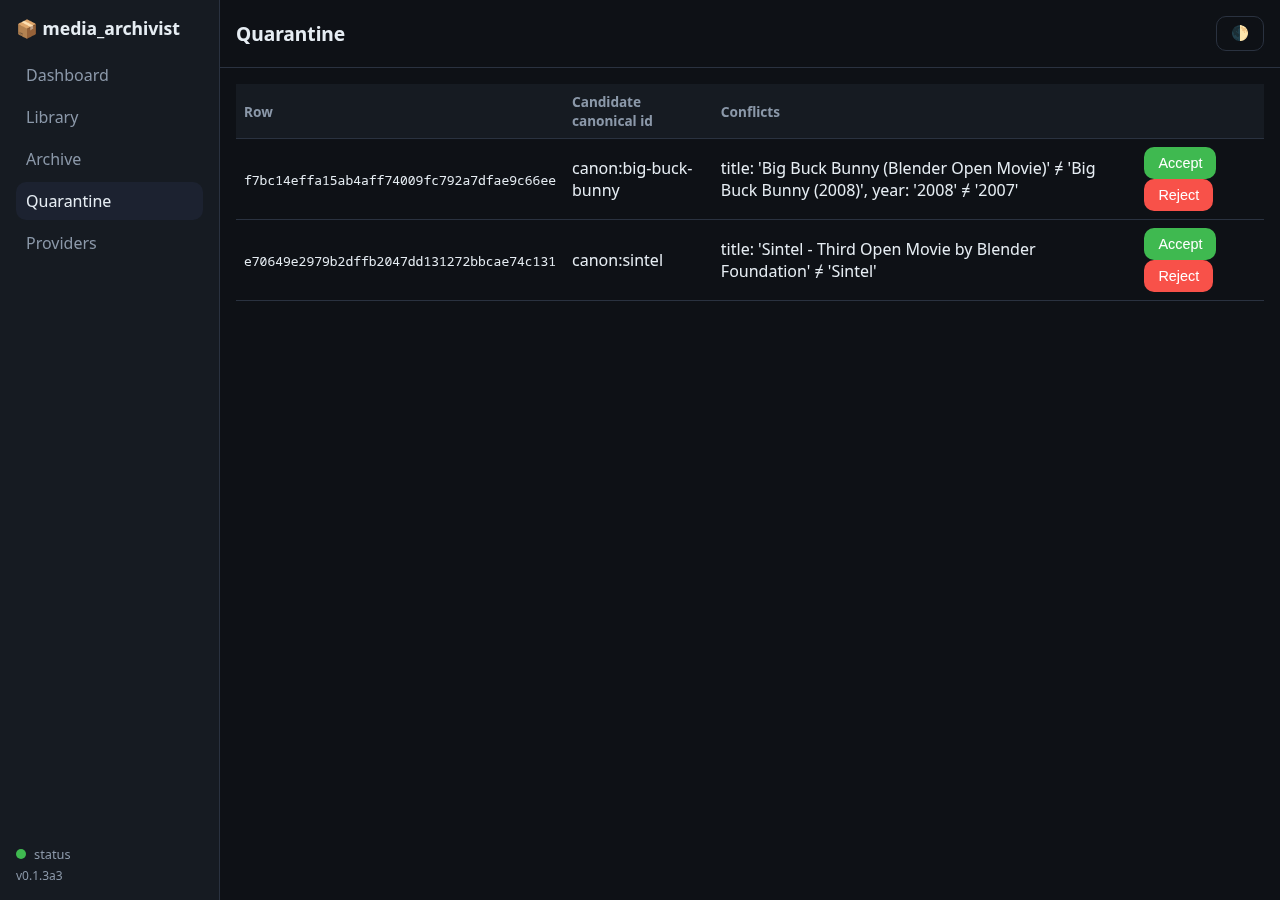
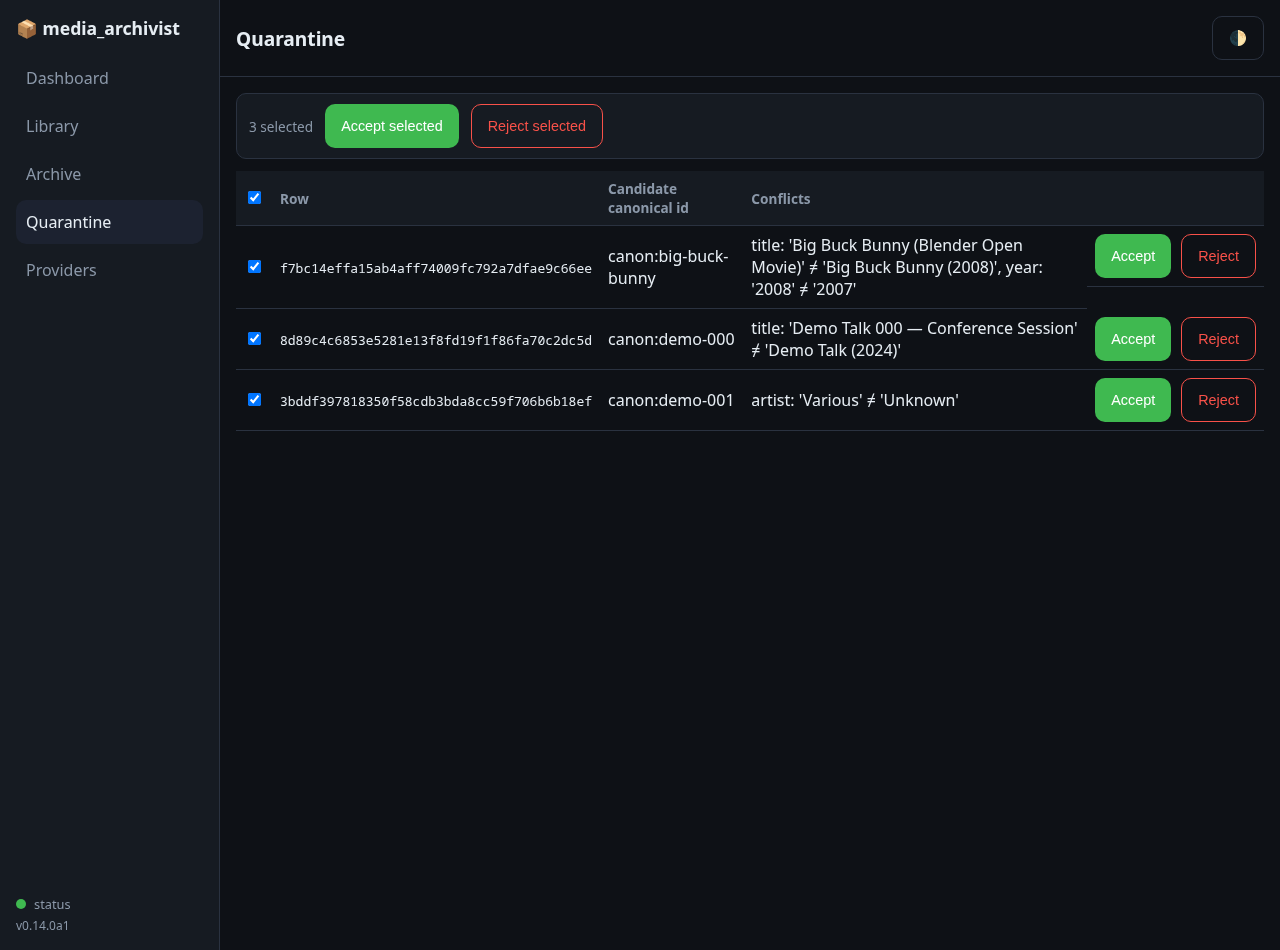
docs: refresh README + docs around the streams job
State the streams-not-tagging job up front, document the paginated
Library, inline player, bulk quarantine accept/reject, optional
download action, and the strm play-time yt-dlp redirect hook against
current source. Wire the staged screenshots into README/webui.md and
add jellyfin.md/metadatarr.md to the mkdocs nav.

diff --git a/README.md b/README.md
@@ -1,7 +1,11 @@
 # media_archivist
 
-Cross-source media indexer. Builds a local JSON database of stream metadata
-from YouTube, YouTube Music, Internet Archive, Bandcamp and SoundCloud.
+media_archivist adds remote media as **streams** to your library. It indexes
+YouTube, YouTube Music, Internet Archive, Bandcamp and SoundCloud into a local
+JSON database, exports that index as `.strm` / M3U / RSS for Jellyfin and
+Kodi, and resolves a fresh playable URL for any entry on demand — all
+**without downloading anything**. Downloading is optional and secondary: a
+one-click/one-command action for the rows you actually want on disk.
 
 | Backend | Library | What you can index |
 | --- | --- | --- |
@@ -11,11 +15,11 @@ from YouTube, YouTube Music, Internet Archive, Bandcamp and SoundCloud.
 | **Bandcamp** | [`py_bandcamp`](https://github.com/LeMetadatarr/py_bandcamp) | tracks, albums, artists, tag/search |
 | **SoundCloud** | [`nuvem_de_som`](https://github.com/LeMetadatarr/nuvem_de_som) | tracks, sets, profiles, search |
 
-`media_archivist` is **metadata-only**: it indexes streams. It does not
-download them. Pair it with [`yt-dlp`](https://github.com/yt-dlp/yt-dlp) (or
-SoundCloud's `resolve_stream`, Bandcamp's `track.stream`) for on-demand
-extraction, or use the JSON DB to drive dataset-collection scripts, recommender
-experiments, OVOS skills, etc.
+`media_archivist` does the **streams** job only — index, resolve, play,
+optionally download. It does **not** tag an existing media library; that's
+[`metadatarr`](https://github.com/LeMetadatarr/metadatarr)'s job
+(`metadatarr tag-library`), the cross-source metadata resolver media_archivist
+itself calls into for `canonicalize`.
 
 Ships as a Python library, a `media-archivist` CLI, a JSON HTTP API, and a
 build-free Web UI on top of that API.
@@ -32,8 +36,9 @@ pip install media_archivist[all]         # + huggingface_hub, fastapi, uvicorn (
 ## Web UI
 
 A build-free [htmx](https://htmx.org) Web UI ships with the server, no
-Node, no JS build step. It gives you a dashboard, a library browser, one-click
-archiving with live progress, and a dedup quarantine review queue, all served
+Node, no JS build step. It gives you a dashboard, a paginated library browser
+with an inline player, one-click archiving and downloading with live
+progress, and a dedup quarantine queue with bulk accept/reject, all served
 alongside the existing JSON API.
 
 ![Dashboard](docs/img/dashboard.png)
@@ -53,15 +58,23 @@ docker compose -f deploy/docker-compose.yml up
 A quick tour of the pages:
 
 - **Library** — filter by source, free-text grep, or the `where` DSL, with
-  yes/no stream badges at a glance. The `where` filter is sandboxed: it
-  parses your expression with `ast` and walks a small allow-list of
-  comparisons/booleans, it never calls Python's `eval`.
+  yes/no stream badges at a glance and paginated results ("Showing 1–50 of
+  60" + Prev/Next). The `where` filter is sandboxed: it parses your
+  expression with `ast` and walks a small allow-list of comparisons/booleans,
+  it never calls Python's `eval`.
   ![Library](docs/img/library.png)
+- **Entry detail** — click a row to open the detail drawer: an inline player
+  (native `<audio>`/`<video>` when a direct stream URL is known, a lazy
+  `youtube-nocookie` embed or a "▶ Play (yt-dlp)" button otherwise), an
+  "↻ refresh stream" action for stale URLs, "Open original", full metadata,
+  and, when `yt-dlp` is available, a "⬇ Download" button.
+  ![Entry detail](docs/img/entry-detail.png)
 - **Archive** — kick off a new archive job and watch it progress live, no
   page refresh.
   ![Archive](docs/img/archive.png)
 - **Quarantine** — review dedup conflicts the resolver couldn't confidently
-  match, accept or reject each one.
+  match. Select multiple rows and "Accept selected" / "Reject selected" in
+  one action, or decide row by row.
   ![Quarantine](docs/img/quarantine.png)
 - **Providers** — see which metadatarr providers are active at a glance.
   ![Providers](docs/img/providers.png)
@@ -76,6 +89,46 @@ authentication**. It's single-tenant, LAN-only by design, put it behind a
 reverse proxy if you expose it beyond your local network, see
 [`docs/deploy.md`](docs/deploy.md). Full page-by-page tour:
 [`docs/webui.md`](docs/webui.md).
+
+## Playback: `.strm` + a play-time yt-dlp hook
+
+The point of streaming instead of downloading is that `media-archivist serve`
+can hand Jellyfin/Kodi a URL that **resolves at play time**, not at
+export time — so it survives YouTube CDN URLs expiring. Export `.strm` files
+whose body is `<base_url>/strm/<id>?resolve=1` (or set
+`MEDIA_ARCHIVIST_STRM_RESOLVE=1` on the server so plain `<base_url>/strm/<id>`
+bodies resolve too):
+
+```bash
+media-archivist strm-export --db-file talks.json \
+    --output-dir /var/lib/jellyfin/media/archivist \
+    --base-url http://nas.local:8000
+```
+
+When Jellyfin/ffmpeg opens that URL at playback time, media-archivist
+re-resolves a fresh direct media URL via yt-dlp and replies with a **302
+redirect** to it, no downloading, no Jellyfin plugin needed. Add
+`?mode=proxy` (or `MEDIA_ARCHIVIST_STRM_PROXY=1`) to have media-archivist
+stream the bytes through itself instead of redirecting, for players that
+can't follow redirects or reach the CDN directly. Resolution is
+**source-aware**: Bandcamp and SoundCloud resolve via their own archivist
+libs (no `yt-dlp` needed for those), YouTube (and anything else) goes through
+`yt-dlp`. Full recipe, `.nfo` sidecars, and library layouts:
+[`docs/jellyfin.md`](docs/jellyfin.md).
+
+## Optional download
+
+Streaming is the default; downloading a specific entry to disk is one
+scheduler-backed action away — the "⬇ Download" button in the entry detail
+drawer, or:
+
+```bash
+curl -X POST http://localhost:8000/entries/<id>/download
+```
+
+Files land under `MEDIA_ARCHIVIST_DOWNLOAD_DIR`, progress is tracked the same
+way as archive jobs (poll `GET /tasks/{task_id}`), and the button/endpoint is
+only offered when `yt-dlp` is actually available on the server.
 
 ## CLI
 
@@ -154,7 +207,7 @@ Do not expose port 8000 directly to the internet.
 
 | Endpoint | Purpose |
 | -------- | ------- |
-| `GET /strm/{id}` | Returns playable URL as `text/plain`, drop into `.strm` files for Jellyfin / Kodi. |
+| `GET /strm/{id}` | Playable URL for `.strm` files. Plain `text/plain` by default; `?resolve=1` 302-redirects to a freshly yt-dlp-resolved stream at play time (`?mode=proxy` to proxy the bytes instead). |
 | `GET /m3u` | M3U playlist of stream URLs. Accepts `source`, `where`, `has_stream`, `limit`. |
 | `GET /feed.rss` | RSS feed for podcast clients or Freshrss. Accepts `limit`. |
 | `GET /healthz` | Liveness check for Uptime Kuma, Docker, k8s. Returns `{status, version, db_path}`. |
@@ -163,6 +216,7 @@ Do not expose port 8000 directly to the internet.
 | `GET /quarantine` | List entries the resolver could not confidently match. |
 | `POST /quarantine/{id}/accept` | Accept a quarantined row (optional `?canonical_id=` to link). |
 | `POST /quarantine/{id}/reject` | Reject and force a fresh canonical_id. |
+| `POST /entries/{id}/download` | Optional: enqueue a `yt-dlp` download of one entry to `MEDIA_ARCHIVIST_DOWNLOAD_DIR`. `503` if `yt-dlp` isn't available. |
 | `GET /docs` | Auto-generated OpenAPI / Swagger UI. |
 
 See [`docs/deploy.md`](docs/deploy.md) for the full route table, Systemd

diff --git a/docs/webui.md b/docs/webui.md
@@ -31,13 +31,30 @@ to re-run the resolver against the DB.
 
 Browse every entry in the DB. The filter form supports source, free-text
 grep, and the `where` DSL (the same query language the CLI and API use),
-plus a result limit. Each row shows a yes/no stream badge so you can spot
-entries missing a resolvable stream at a glance.
+plus a page-size limit. Each row shows a yes/no stream badge so you can spot
+entries missing a resolvable stream at a glance. Results are paginated —
+"Showing 1–50 of 60" with Prev/Next buttons that carry the current filter
+along (`hx-include`d from the filter form), so you can page through a large
+DB without re-typing the query.
 
 ![Library](img/library.png)
 
-Click into a row for the entry detail drawer: thumbnail, full metadata,
-external IDs, and a link to resolve the entry via `/strm/{id}`.
+Click into a row for the entry detail drawer: thumbnail and full metadata,
+external IDs, and an **inline player**:
+
+- if the entry already has a direct stream URL (Bandcamp, SoundCloud, IA),
+  it plays straight in a native `<audio>` or `<video>` element;
+- if it's a YouTube entry, a "▶ Play" button lazy-loads a
+  `youtube-nocookie.com` iframe embed on click (no autoplay, no tracking
+  before you press play);
+- when `yt-dlp` is available server-side, a "▶ Play (yt-dlp)" button
+  resolves and plays the direct media URL instead of embedding, and a
+  "↻ refresh stream" button lets you re-resolve an entry whose stored
+  `stream` URL may have gone stale;
+- "Open original ↗" always links back to the source page;
+- a "⬇ Download" button (shown whenever `yt-dlp` is available) kicks off a
+  background download job for that entry — see
+  [Optional download](#optional-download) below.
 
 ![Entry detail](img/entry-detail.png)
 
@@ -54,10 +71,30 @@ no page refresh needed.
 
 When the resolver can't confidently match an entry against the canonical
 index, it lands here instead of silently merging. Each conflict is shown
-with the competing candidates side by side, readable diffs, and
+with its candidate canonical id and the fields in conflict, and per-row
 Accept/Reject buttons, no need to hand-edit the quarantine JSON sidecar.
 
+Check the box on any number of rows and a bulk action bar appears: "Accept
+selected" / "Reject selected" apply the decision to every checked row in one
+call, with a confirmation prompt before either. A header checkbox selects or
+clears all rows at once. Useful once you've eyeballed a batch and just want
+to clear the queue.
+
 ![Quarantine](img/quarantine.png)
+
+## Optional download
+
+media-archivist's job is streaming, not downloading, but sometimes you want
+a specific entry on disk. The "⬇ Download" button posts to
+`/entries/{id}/download`, which is scheduler-backed exactly like an archive
+job: it queues, runs, and reports progress via `GET /tasks/{task_id}`. Files
+land under `MEDIA_ARCHIVIST_DOWNLOAD_DIR`. The button (and the endpoint) only
+appear/work when `yt-dlp` is available on the server — a 503 otherwise.
+
+For playback without downloading, see
+[`.strm` + play-time resolution in jellyfin.md](jellyfin.md#recommended-play-time-resolution-with-resolve1),
+which the "▶ Play (yt-dlp)" / "↻ refresh stream" buttons above use the same
+resolver as.
 
 ## Providers
 

diff --git a/docs/deploy.md b/docs/deploy.md
@@ -75,7 +75,7 @@ Once the service is up, three endpoints connect it to the rest of your stack:
 
 | Endpoint | Client |
 | -------- | ------ |
-| `GET /strm/{id}` | Jellyfin / Kodi `.strm` files, returns the playable URL as `text/plain`. See [Jellyfin docs](./jellyfin.md). |
+| `GET /strm/{id}` | Jellyfin / Kodi `.strm` files. Plain `text/plain` URL by default; `?resolve=1` turns it into a play-time yt-dlp hook that 302-redirects to a freshly resolved stream (`?mode=proxy` to stream bytes through instead). See [Jellyfin docs](./jellyfin.md). |
 | `GET /m3u` | Any M3U-capable client (VLC, Kodi, IPTV apps). Accepts `source`, `where`, `has_stream`, `limit` query params. |
 | `GET /feed.rss` | Podcast clients, Jellyfin RSS plugin, Freshrss. Accepts `limit`. |
 | `GET /healthz` | Uptime Kuma, Docker healthcheck, Compose healthcheck, k8s liveness probe. Returns `{status: "ok", version, db_path}`. |
@@ -87,6 +87,7 @@ Once the service is up, three endpoints connect it to the rest of your stack:
 | `GET`  | `/entries`           | Query the canonical view (filters: `source`, `where`, `grep`, `has_stream`, `explicit`, `limit`). |
 | `GET`  | `/entries/{id}`      | Fetch a single `MediaEntry` by id. |
 | `POST` | `/archive`           | Enqueue an archive task. Returns a `Task`. |
+| `POST` | `/entries/{id}/download` | Enqueue an optional download of one entry via `yt-dlp` to `MEDIA_ARCHIVIST_DOWNLOAD_DIR`. Returns a `Task`. `503` if `yt-dlp` isn't available. |
 | `GET`  | `/tasks/{id}`        | Task progress (`queued`, `running`, `ok`, `error`). |
 | `GET`  | `/feed.rss`          | RSS feed of recently-added entries. |
 | `GET`  | `/m3u`               | M3U playlist of stream URLs. |
